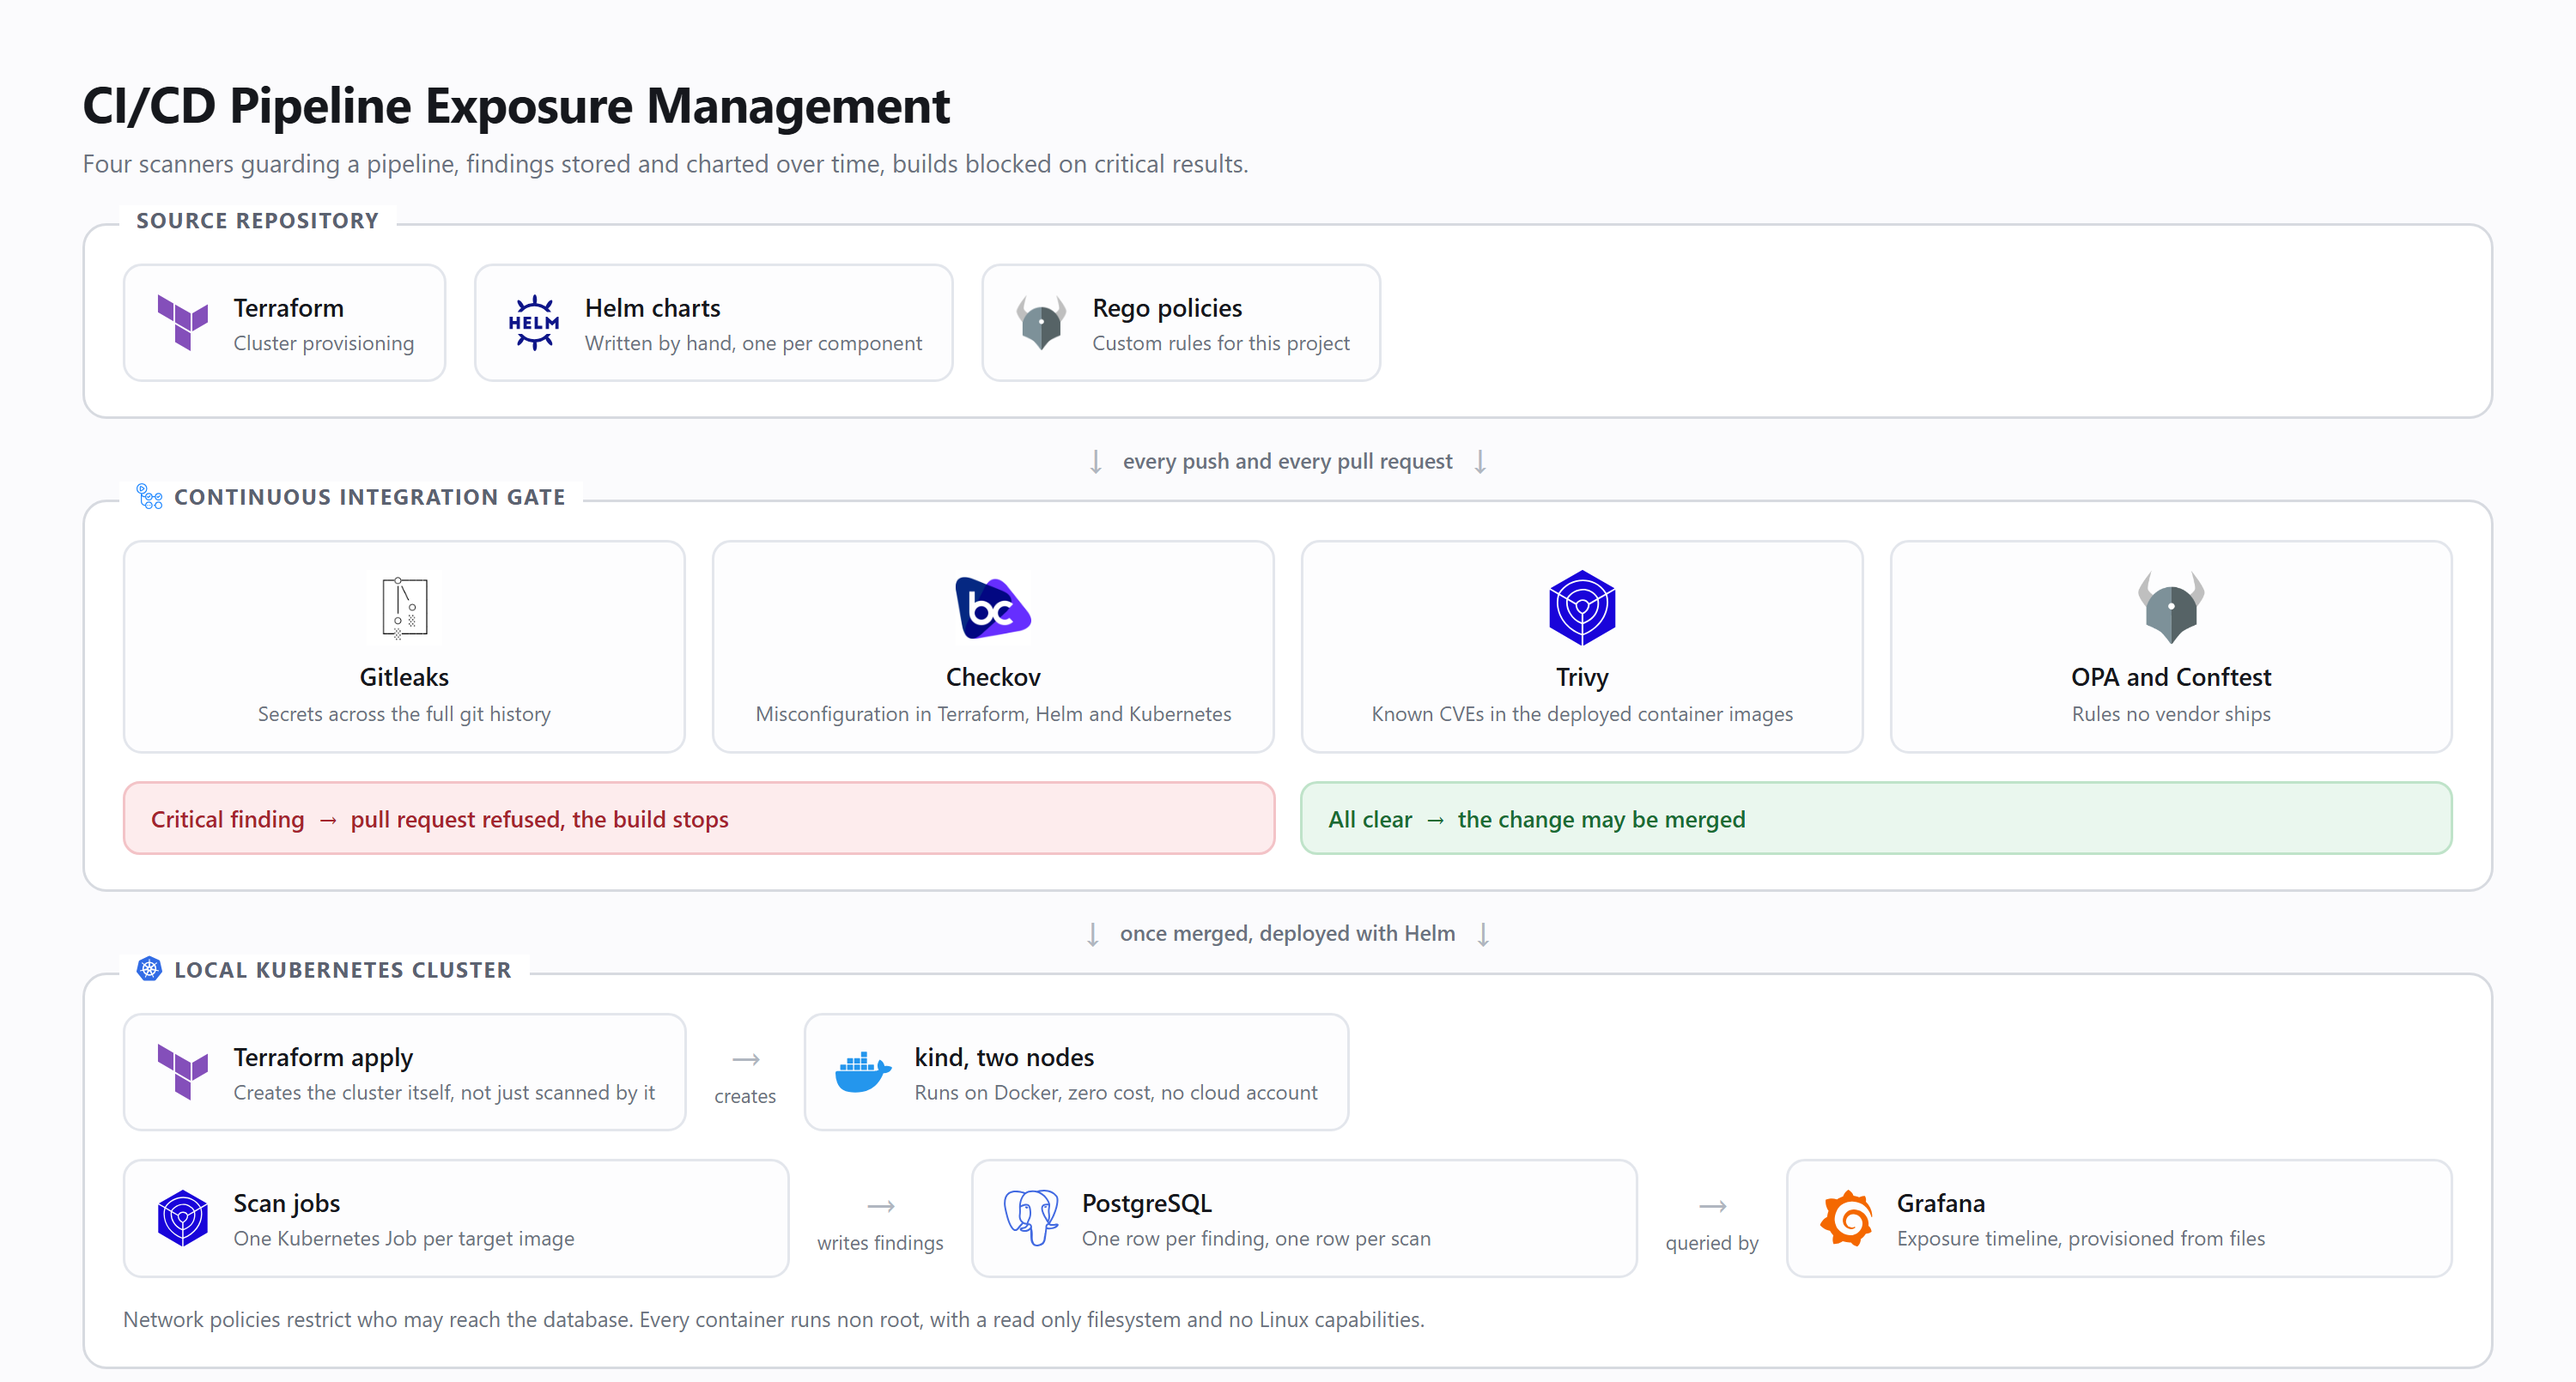
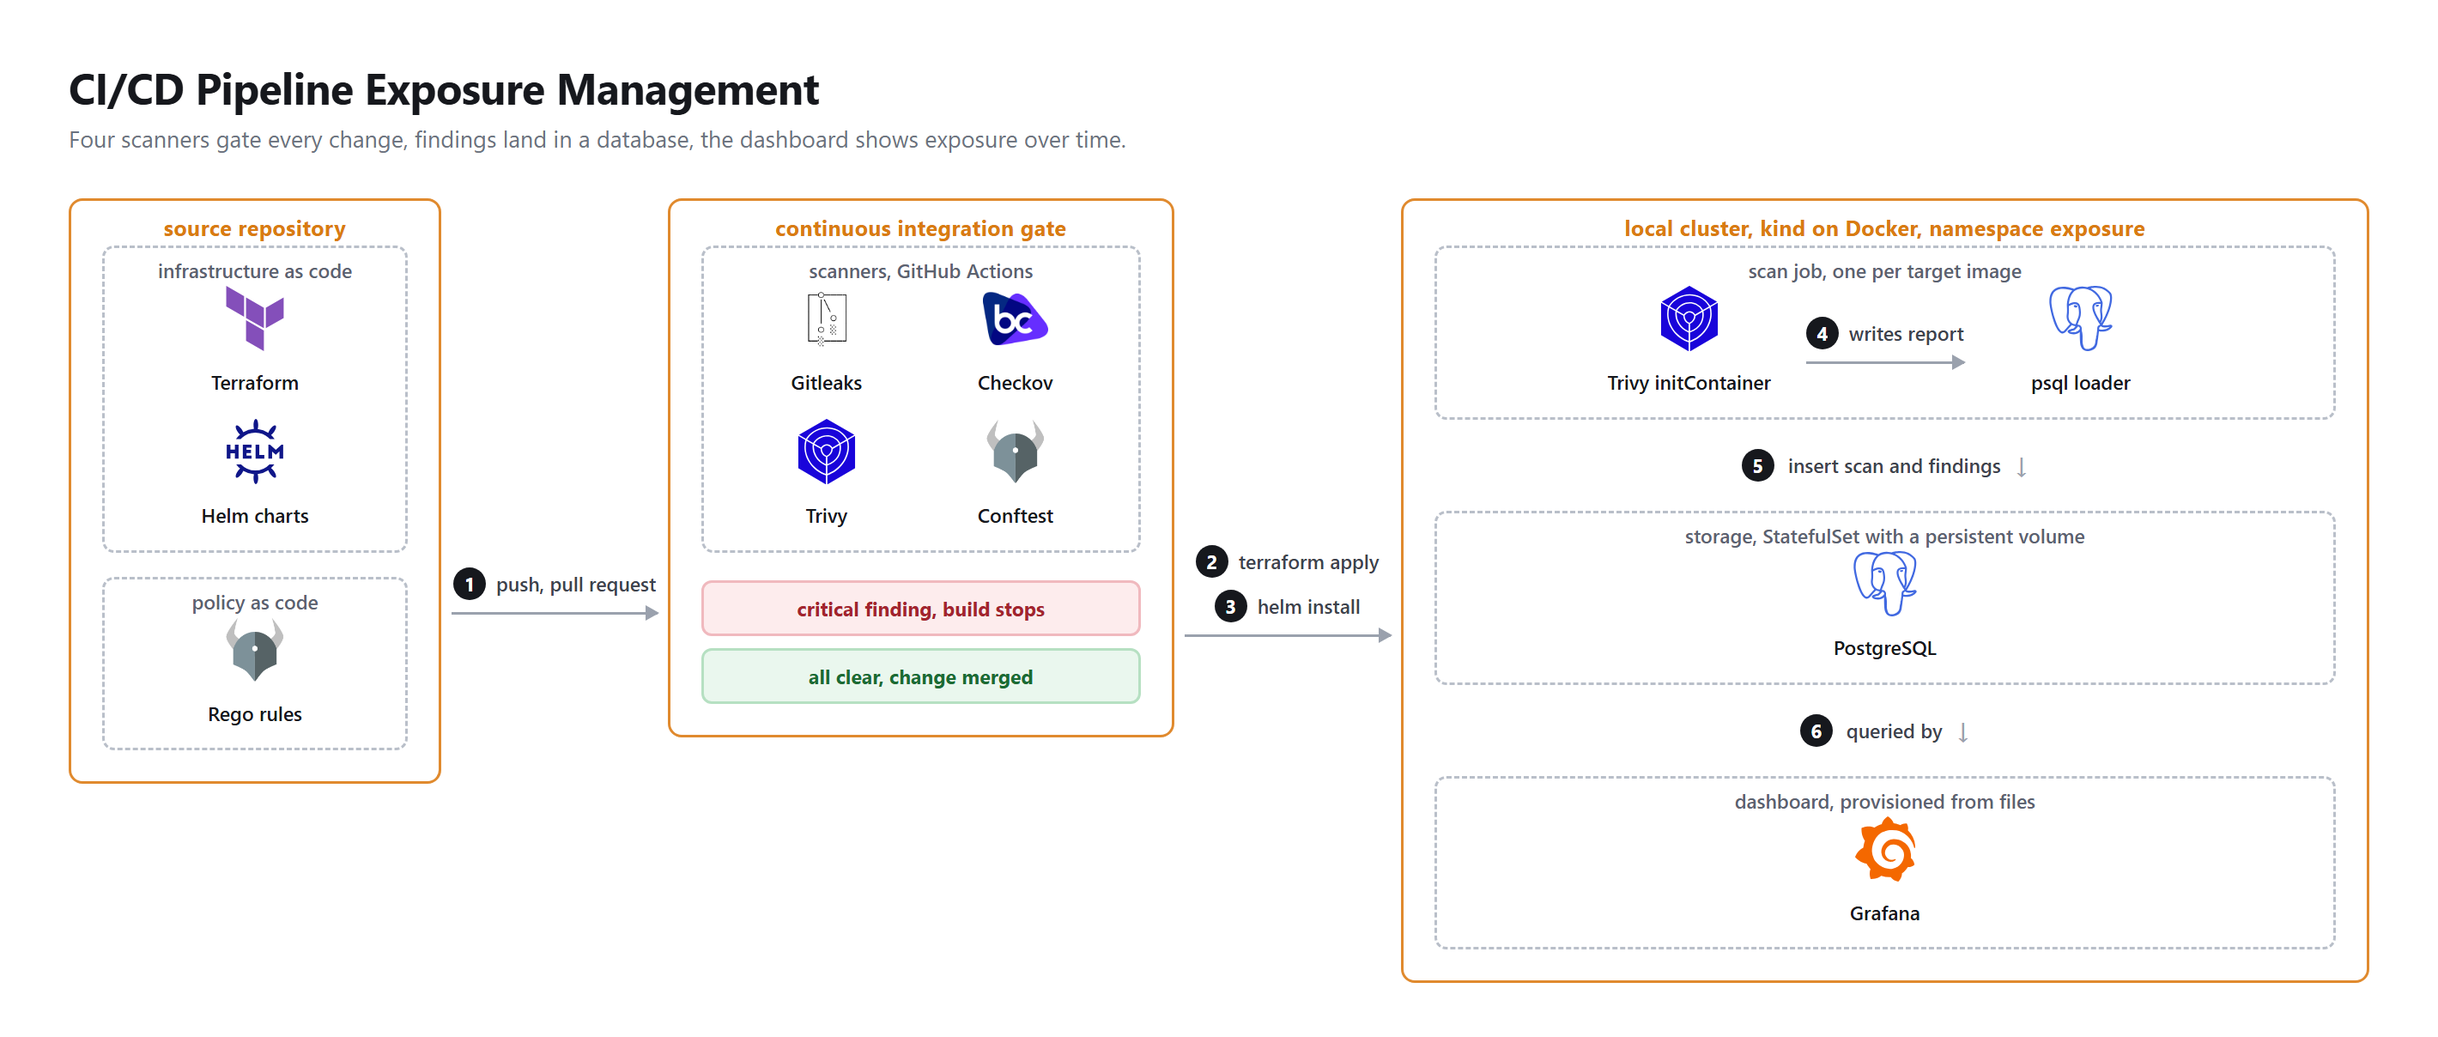
docs: rework the architecture diagram into nested groups

diff --git a/docs/diagram/build-diagram.js b/docs/diagram/build-diagram.js
@@ -22,134 +22,146 @@ const L = {
   checkov: uri("checkov.png"),
 };
 
-const scanner = (logo, name, role) => `
-  <div class="tool">
-    <div class="chip"><img src="${L[logo]}" alt="${name}"></div>
-    <div class="tool-name">${name}</div>
-    <div class="tool-role">${role}</div>
-  </div>`;
+const tile = (logo, name) => `
+  <div class="tile"><img src="${L[logo]}" alt="${name}"><span>${name}</span></div>`;
 
-const node = (logo, title, sub, extra = "") => `
-  <div class="node" ${extra}>
-    <img src="${L[logo]}" alt="${title}">
-    <div><div class="node-title">${title}</div><div class="node-sub">${sub}</div></div>
-  </div>`;
+const step = (n, label) => `
+  <div class="step"><span class="num">${n}</span><span class="lbl">${label}</span></div>`;
 
 const html = `<!doctype html>
 <html><head><meta charset="utf-8"><style>
   * { box-sizing: border-box; margin: 0; padding: 0; }
   body {
-    width: 1500px;
+    width: 1420px;
     font-family: "Segoe UI", system-ui, sans-serif;
-    background: #fbfbfd;
+    background: #fff;
     color: #16181d;
-    padding: 40px 48px 34px;
+    padding: 34px 40px 30px;
   }
-  h1 { font-size: 29px; font-weight: 650; letter-spacing: -0.4px; }
-  .sub { font-size: 14.5px; color: #6b7280; margin-top: 6px; margin-bottom: 26px; }
+  h1 { font-size: 25px; font-weight: 700; letter-spacing: -0.3px; }
+  .sub { font-size: 13.5px; color: #6b7280; margin-top: 4px; margin-bottom: 26px; }
 
-  .stage { border: 1.5px solid #d7dae0; border-radius: 14px; background: #fff; padding: 22px 22px 20px; position: relative; }
-  .stage-label {
-    position: absolute; top: -12px; left: 20px; background: #fff;
-    padding: 0 10px; font-size: 12.5px; font-weight: 650;
-    letter-spacing: 0.9px; text-transform: uppercase; color: #5b6270;
-    display: flex; align-items: center; gap: 7px;
+  .canvas { display: flex; align-items: flex-start; gap: 0; }
+
+  .group {
+    border: 1.5px solid #e08a2e; border-radius: 8px;
+    padding: 26px 18px 18px; position: relative; background: #fff;
+    display: flex; flex-direction: column; gap: 14px;
   }
-  .stage-label img { height: 15px; width: 15px; }
-  .stage-note { font-size: 12.5px; color: #6b7280; margin-top: 15px; }
-
-  .band { display: flex; align-items: center; gap: 16px; }
-  .band .node { flex: none; }
-
-  .flow { display: flex; align-items: center; justify-content: center; gap: 11px; padding: 13px 0; }
-  .flow-arrow { font-size: 21px; color: #b0b6c0; line-height: 1; }
-  .flow-label { font-size: 12.5px; color: #6b7280; font-weight: 550; }
-
-  .tools { display: flex; gap: 15px; }
-  .tool {
-    flex: 1; border: 1.5px solid #e3e6ec; border-radius: 11px;
-    padding: 15px 12px 14px; text-align: center; background: #fdfdfe;
+  .group > .gname {
+    position: absolute; top: 7px; left: 0; right: 0; text-align: center;
+    font-size: 12.5px; font-weight: 650; color: #d97b12; letter-spacing: 0.2px;
   }
-  .chip {
-    height: 46px; display: flex; align-items: center; justify-content: center;
+
+  .sub-group {
+    border: 1.5px dashed #b9bfc9; border-radius: 7px;
+    padding: 22px 14px 13px; position: relative;
   }
-  .chip img { max-height: 44px; max-width: 118px; object-fit: contain; }
-  .tool-name { font-size: 14.5px; font-weight: 620; margin-top: 7px; }
-  .tool-role { font-size: 12px; color: #6b7280; margin-top: 4px; line-height: 1.35; }
-
-  .node {
-    border: 1.5px solid #e3e6ec; border-radius: 11px; background: #fdfdfe;
-    padding: 14px 17px; display: flex; align-items: center; gap: 13px;
+  .sub-group > .sname {
+    position: absolute; top: 5px; left: 0; right: 0; text-align: center;
+    font-size: 11.5px; font-weight: 600; color: #5b6270;
   }
-  .node img { height: 33px; width: 33px; object-fit: contain; flex: none; }
-  .node-title { font-size: 14.5px; font-weight: 620; }
-  .node-sub { font-size: 12px; color: #6b7280; margin-top: 3px; line-height: 1.35; }
 
-  .verdicts { display: flex; gap: 14px; margin-top: 16px; }
-  .verdict { flex: 1; border-radius: 10px; padding: 11px 15px; font-size: 13.5px; font-weight: 600; }
-  .blocked { background: #fdeced; color: #a3242e; border: 1.5px solid #f3c3c7; }
-  .passed  { background: #eaf7ee; color: #1c6b33; border: 1.5px solid #bfe3c9; }
+  .tiles { display: flex; gap: 14px; justify-content: center; flex-wrap: wrap; }
+  .tile { width: 96px; text-align: center; }
+  .tile img { height: 38px; width: auto; max-width: 76px; object-fit: contain; }
+  .tile span { display: block; font-size: 11.5px; font-weight: 600; margin-top: 7px; line-height: 1.25; }
 
-  .row { display: flex; align-items: center; gap: 16px; }
-  .arrow { display: flex; flex-direction: column; align-items: center; gap: 4px; flex: none; }
-  .arrow-line { font-size: 23px; color: #b0b6c0; line-height: 1; }
-  .arrow-label { font-size: 11.5px; color: #6b7280; white-space: nowrap; }
-  .gap { height: 16px; }
+  .connector { align-self: center; display: flex; flex-direction: column; justify-content: center; align-items: center; padding: 0 6px; min-width: 132px; }
+  .connector .line { width: 100%; height: 1.5px; background: #9aa1ad; position: relative; }
+  .connector .line::after {
+    content: ""; position: absolute; right: -1px; top: -4px;
+    border-left: 8px solid #9aa1ad; border-top: 4.5px solid transparent; border-bottom: 4.5px solid transparent;
+  }
+  .step { display: flex; align-items: center; gap: 6px; margin-bottom: 7px; }
+  .num {
+    width: 19px; height: 19px; border-radius: 50%; background: #16181d; color: #fff;
+    font-size: 11px; font-weight: 700; display: flex; align-items: center; justify-content: center; flex: none;
+  }
+  .lbl { font-size: 11.5px; color: #3d434d; font-weight: 550; white-space: nowrap; }
+
+  .vconn { display: flex; align-items: center; gap: 8px; justify-content: center; padding: 3px 0; }
+  .vconn .down { font-size: 17px; color: #9aa1ad; line-height: 1; }
+
+  .verdicts { display: flex; flex-direction: column; gap: 7px; margin-top: 2px; }
+  .verdict { border-radius: 6px; padding: 7px 11px; font-size: 11.5px; font-weight: 650; text-align: center; }
+  .blocked { background: #fdeced; color: #a3242e; border: 1.5px solid #f0b9be; }
+  .passed  { background: #eaf7ee; color: #1c6b33; border: 1.5px solid #b6e0c2; }
 </style></head><body>
 
 <h1>CI/CD Pipeline Exposure Management</h1>
-<div class="sub">Four scanners guarding a pipeline, findings stored and charted over time, builds blocked on critical results.</div>
+<div class="sub">Four scanners gate every change, findings land in a database, the dashboard shows exposure over time.</div>
 
-<div class="stage">
-  <div class="stage-label">Source repository</div>
-  <div class="band">
-    ${node("terraform", "Terraform", "Cluster provisioning")}
-    ${node("helm", "Helm charts", "Written by hand, one per component")}
-    ${node("opa", "Rego policies", "Custom rules for this project")}
-  </div>
-</div>
+<div class="canvas">
 
-<div class="flow">
-  <span class="flow-arrow">&darr;</span>
-  <span class="flow-label">every push and every pull request</span>
-  <span class="flow-arrow">&darr;</span>
-</div>
+  <div class="group" style="width:236px">
+    <div class="gname">source repository</div>
+    <div class="sub-group">
+      <div class="sname">infrastructure as code</div>
+      <div class="tiles">${tile("terraform", "Terraform")}${tile("helm", "Helm charts")}</div>
+    </div>
+    <div class="sub-group">
+      <div class="sname">policy as code</div>
+      <div class="tiles">${tile("opa", "Rego rules")}</div>
+    </div>
+  </div>
 
-<div class="stage">
-  <div class="stage-label"><img src="${L.actions}" alt="">Continuous integration gate</div>
-  <div class="tools">
-    ${scanner("gitleaks", "Gitleaks", "Secrets across the full git history")}
-    ${scanner("checkov", "Checkov", "Misconfiguration in Terraform, Helm and Kubernetes")}
-    ${scanner("trivy", "Trivy", "Known CVEs in the deployed container images")}
-    ${scanner("opa", "OPA and Conftest", "Rules no vendor ships")}
+  <div class="connector">
+    ${step(1, "push, pull request")}
+    <div class="line"></div>
   </div>
-  <div class="verdicts">
-    <div class="verdict blocked">Critical finding &nbsp;&rarr;&nbsp; pull request refused, the build stops</div>
-    <div class="verdict passed">All clear &nbsp;&rarr;&nbsp; the change may be merged</div>
-  </div>
-</div>
 
-<div class="flow">
-  <span class="flow-arrow">&darr;</span>
-  <span class="flow-label">once merged, deployed with Helm</span>
-  <span class="flow-arrow">&darr;</span>
-</div>
+  <div class="group" style="width:322px">
+    <div class="gname">continuous integration gate</div>
+    <div class="sub-group">
+      <div class="sname">scanners, GitHub Actions</div>
+      <div class="tiles">
+        ${tile("gitleaks", "Gitleaks")}${tile("checkov", "Checkov")}
+        ${tile("trivy", "Trivy")}${tile("opa", "Conftest")}
+      </div>
+    </div>
+    <div class="verdicts">
+      <div class="verdict blocked">critical finding, build stops</div>
+      <div class="verdict passed">all clear, change merged</div>
+    </div>
+  </div>
 
-<div class="stage">
-  <div class="stage-label"><img src="${L.kubernetes}" alt="">Local Kubernetes cluster</div>
-  <div class="row" style="margin-bottom:16px">
-    ${node("terraform", "Terraform apply", "Creates the cluster itself, not just scanned by it")}
-    <div class="arrow"><div class="arrow-line">&rarr;</div><div class="arrow-label">creates</div></div>
-    ${node("docker", "kind, two nodes", "Runs on Docker, zero cost, no cloud account")}
+  <div class="connector">
+    ${step(2, "terraform apply")}
+    ${step(3, "helm install")}
+    <div class="line"></div>
   </div>
-  <div class="row">
-    ${node("trivy", "Scan jobs", "One Kubernetes Job per target image", 'style="flex:1"')}
-    <div class="arrow"><div class="arrow-line">&rarr;</div><div class="arrow-label">writes findings</div></div>
-    ${node("postgres", "PostgreSQL", "One row per finding, one row per scan", 'style="flex:1"')}
-    <div class="arrow"><div class="arrow-line">&rarr;</div><div class="arrow-label">queried by</div></div>
-    ${node("grafana", "Grafana", "Exposure timeline, provisioned from files", 'style="flex:1"')}
+
+  <div class="group" style="width:620px">
+    <div class="gname">local cluster, kind on Docker, namespace exposure</div>
+
+    <div class="sub-group">
+      <div class="sname">scan job, one per target image</div>
+      <div class="tiles" style="align-items:center">
+        ${tile("trivy", "Trivy initContainer")}
+        <div class="connector" style="min-width:104px">
+          ${step(4, "writes report")}
+          <div class="line"></div>
+        </div>
+        ${tile("postgres", "psql loader")}
+      </div>
+    </div>
+
+    <div class="vconn"><span class="num">5</span><span class="lbl">insert scan and findings</span><span class="down">&darr;</span></div>
+
+    <div class="sub-group">
+      <div class="sname">storage, StatefulSet with a persistent volume</div>
+      <div class="tiles">${tile("postgres", "PostgreSQL")}</div>
+    </div>
+
+    <div class="vconn"><span class="num">6</span><span class="lbl">queried by</span><span class="down">&darr;</span></div>
+
+    <div class="sub-group">
+      <div class="sname">dashboard, provisioned from files</div>
+      <div class="tiles">${tile("grafana", "Grafana")}</div>
+    </div>
   </div>
-  <div class="stage-note">Network policies restrict who may reach the database. Every container runs non root, with a read only filesystem and no Linux capabilities.</div>
+
 </div>
 
 </body></html>`;
